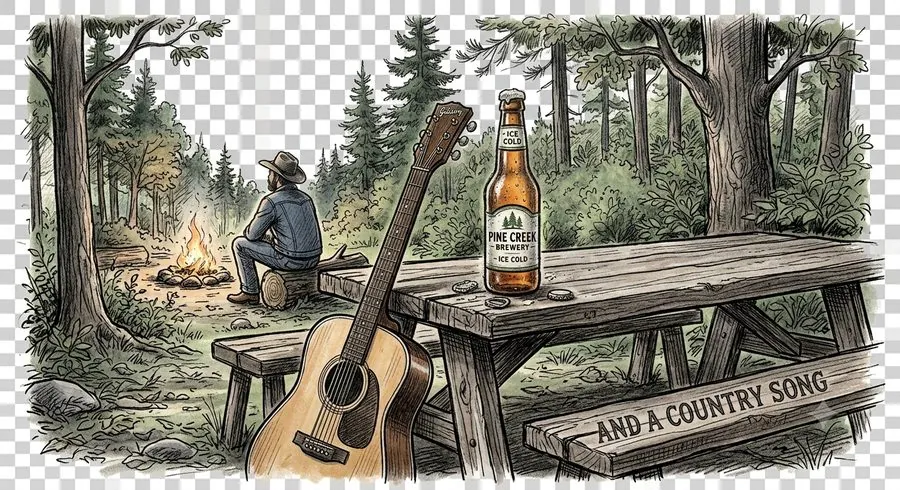
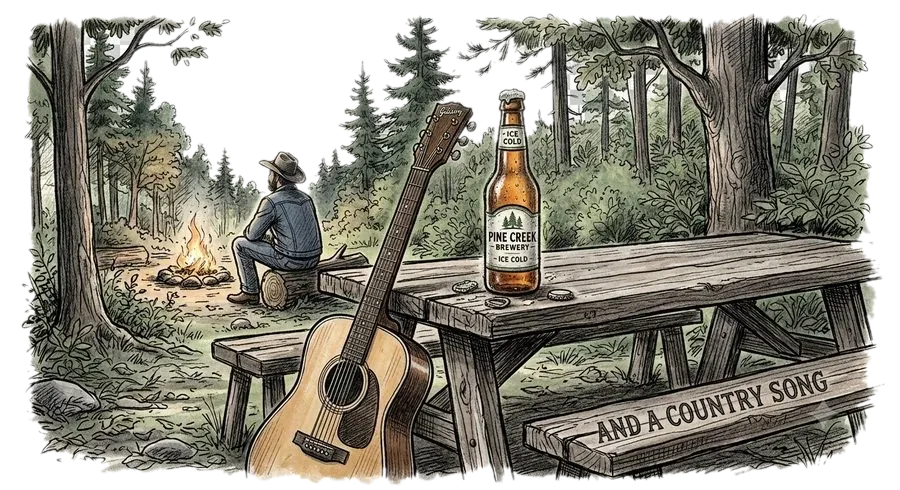
Google set-up: page addresses, titles, sitemap, product feed, image alt text
- Each page now has its own web address (/country-quotes, /design-your-own ...)
  with its own title and description; old #links still work
- /sitemap.xml and /robots.txt so Google can find every page and design image
- /merchant-feed.xml for free Google Shopping listings (each design as
  T-shirt, hoodie, mug and cap at the real prices)
- Design pictures are now real images with alt text (name + description)
  and are no longer hidden from Google Images (customer uploads still are)
- /country-quotes?design=ID opens that design (used by the feed, good for sharing)
- Shop details for Google (JSON-LD), footer links to every page
- Removed the checkerboard from the Country Quotes banner picture
- Service worker bumped to sca-v11; tests added

Claude-Session: https://claude.ai/code/session_01PQ3bHpSyMFpxk9568C5tdk

Changed region(s): [[0.0, 0.0, 1.0, 1.0]]

diff --git a/sca/public/app.js b/sca/public/app.js
@@ -72,6 +72,8 @@ async function savePricePanel(){
   }catch(e){ alert(e.message || 'Prices could not be saved.'); }
 }
 
+/* alt text read by Google and screen readers: the design name, plus its description if there is one */
+function designAlt(p){ return p.desc ? p.name + ' – ' + p.desc : p.name; }
 function productCard(p, collectionKey){
   const safeId = p.id.replace(/'/g,'');
   const safeName = p.name.replace(/'/g,'');
@@ -81,7 +83,7 @@ function productCard(p, collectionKey){
        <button class="del-btn edit-btn" title="Edit name, price and description" onclick="event.stopPropagation();editDesign('${collectionKey}','${safeId}')">✎</button>`
     : '';
   const swatch = p.img
-    ? `<div class="swatch img design" style="background-image:url('${p.img}');cursor:zoom-in;" onclick="openLightbox('${collectionKey||''}','${safeId}')">${delBtn}<span class="tag">Tap to see it bigger</span></div>`
+    ? `<div class="swatch img design" style="cursor:zoom-in;" onclick="openLightbox('${collectionKey||''}','${safeId}')"><img class="design-img" src="${escHtml(p.img)}" alt="${escHtml(designAlt(p))}" loading="lazy" decoding="async">${delBtn}<span class="tag">Tap to see it bigger</span></div>`
     : `<div class="swatch" style="background:${p.color};cursor:pointer;" onclick="onImageClick('${safeId}')">${delBtn}<span class="mark">${p.name}</span><span class="tag">Tap to order</span></div>`;
   return `<div class="card">
     ${swatch}
@@ -279,7 +281,7 @@ function openLightbox(key, id){
   const d = findDesignAnywhere(id);
   if(!d || !d.img) return;
   document.getElementById('lbImg').src = d.img;
-  document.getElementById('lbImg').alt = d.name;
+  document.getElementById('lbImg').alt = designAlt(d);
   document.getElementById('lbName').textContent = d.name;
   document.getElementById('lbDesc').textContent = d.desc || '';
   document.getElementById('lbPrice').textContent = 'from £' + d.price.toFixed(2);
@@ -1229,7 +1231,57 @@ function renderReviews(){
 buildStarInput('starsExperience');
 buildStarInput('starsProduct');
 
-function showPage(page){
+/* ---------------- one web address per page (helps Google) ----------------
+   Must match PAGE_ROUTES in netlify/lib/seo.mjs and the [[redirects]] in netlify.toml. */
+const PAGE_ROUTES = [
+  { page: "home", path: "/" },
+  { page: "quotes", path: "/country-quotes", collection: "quotes" },
+  { page: "borncollection", path: "/born-here-live-here-ride-here", collection: "born" },
+  { page: "pets", path: "/scottish-pets", collection: "pets" },
+  { page: "dailyquotes", path: "/sarcastic-quotes", collection: "daily" },
+  { page: "military", path: "/military", collection: "military" },
+  { page: "studio", path: "/design-your-own" },
+  { page: "reviews", path: "/reviews" },
+  { page: "contact", path: "/contact" },
+];
+const PAGE_META = {
+  home: ["Scottish Country Attitude | Scottish T-shirts, Hoodies, Mugs & Gifts",
+    "Scottish country quotes, biker, pet, sarcastic and military designs on T-shirts, hoodies, caps, mugs and bags. Made to order in Scotland, with gift sets and your own designs."],
+  quotes: ["Country Quote T-shirts, Hoodies & Mugs | Scottish Country Attitude",
+    "Country music and country living quotes on T-shirts, hoodies, caps and mugs. Made to order in Scotland. Gift sets available."],
+  borncollection: ["Born Here, Live Here, Ride Here | Scottish Biker T-shirts & Gifts",
+    "Scottish biker designs on T-shirts, hoodies, caps and mugs. Highland roads, Saltire pride and sport bikes, made to order in Scotland."],
+  pets: ["Scottish Pets Wae Country Attitude | Pet T-shirts, Mugs & Bags",
+    "Sassy Scottish pet designs on T-shirts, hoodies, mugs and bags. Highland coos, Scotties, spaniels and more, made to order."],
+  dailyquotes: ["Sarcastic Quote T-shirts & Mugs | Scottish Country Attitude",
+    "Cheeky Scottish one-liners on T-shirts, hoodies, caps and mugs for folk with attitude. Made to order in Scotland."],
+  military: ["Military & Veteran T-shirts and Mugs | Scottish Country Attitude",
+    "Designs for serving and former soldiers and their families on mugs, T-shirts and hoodies, or upload your own photo. Made to order in Scotland."],
+  studio: ["Design Your Own T-shirt, Hoodie or Mug | Hen & Stag Dos | Scottish Country Attitude",
+    "Custom T-shirts, hoodies, mugs, caps and bags for hen dos, stag dos, parties and gifts. Upload your image, approve a free proof, then pay."],
+  reviews: ["Customer Reviews | Scottish Country Attitude", "What customers say about their Scottish Country Attitude orders."],
+  contact: ["Contact Us | Scottish Country Attitude", "Questions, bulk orders or custom ideas? Get in touch with Scottish Country Attitude."],
+};
+const routeFor = (page) => PAGE_ROUTES.find(r => r.page === page) || PAGE_ROUTES[0];
+function pageFromPath(path){
+  const clean = (path || '/').replace(/\/+$/, '') || '/';
+  const r = PAGE_ROUTES.find(r => r.path === clean);
+  return r ? r.page : null;
+}
+function setMeta(sel, attr, val){ const el = document.querySelector(sel); if(el) el.setAttribute(attr, val); }
+function applyPageMeta(page){
+  const [title, desc] = PAGE_META[page] || PAGE_META.home;
+  const url = 'https://scottishcountryattitude.co.uk' + routeFor(page).path;
+  document.title = title;
+  setMeta('meta[name="description"]', 'content', desc);
+  setMeta('meta[property="og:title"]', 'content', title);
+  setMeta('meta[property="og:description"]', 'content', desc);
+  setMeta('meta[property="og:url"]', 'content', url);
+  setMeta('link[rel="canonical"]', 'href', url);
+}
+
+function showPage(page, opts){
+  if(!document.getElementById('page-'+page)) page = 'home';
   document.querySelectorAll('section.page').forEach(s=>s.classList.remove('active'));
   document.getElementById('page-'+page).classList.add('active');
   document.querySelectorAll('nav.tabs button').forEach(b=>b.classList.toggle('active', b.dataset.page===page));
@@ -1237,8 +1289,11 @@ function showPage(page){
   if(page === 'studio'){ studioInit(); }
   if(page === 'reviews'){ renderReviews(); }
   if(page === 'contact'){ renderContact(); }
-  if(history.replaceState) history.replaceState(null, '', page === 'home' ? location.pathname : '#' + page);
+  applyPageMeta(page);
+  const path = routeFor(page).path;
+  if(!(opts && opts.noHistory) && history.pushState && location.pathname !== path) history.pushState({page}, '', path);
 }
+window.addEventListener('popstate', ()=>{ showPage(pageFromPath(location.pathname) || 'home', {noHistory:true}); });
 
 /* ---------------- shop data lives on the server ---------------- */
 let ADMIN_KEY = null;
@@ -1288,6 +1343,7 @@ async function loadShop(){
   renderGrids(); renderGiftSets(); renderReviews();
   renderDeliveryChoice('cartDelivery','cart'); updateCartUI(); renderContact();
   if(document.getElementById('page-studio').classList.contains('active')) studioInit();
+  if(typeof openPendingDesign === 'function') openPendingDesign();
 }
 
 /* show the last copy of the shop straight away (works offline), then refresh from the server */
@@ -1299,11 +1355,32 @@ renderReviews();
 renderContact();
 setAdminUI();
 loadShop();
-/* open the page named in the address, e.g. scottishcountryattitude.co.uk/#studio */
+/* open the page named in the address, e.g. scottishcountryattitude.co.uk/design-your-own
+   (old links like /#studio still work and are moved to the new address) */
 (function(){
   const h = location.hash.replace('#','');
-  if(h && document.getElementById('page-'+h) && !location.search) showPage(h);
+  if(h && document.getElementById('page-'+h)){
+    history.replaceState(null, '', routeFor(h).path + location.search);
+    showPage(h, {noHistory:true});
+  } else {
+    showPage(pageFromPath(location.pathname) || 'home', {noHistory:true});
+  }
 })();
+
+/* a link to one design, e.g. /country-quotes?design=q123 (used by Google Shopping and for sharing) */
+let pendingDesign = new URLSearchParams(location.search).get('design');
+function openPendingDesign(){
+  if(!pendingDesign) return;
+  for(const r of PAGE_ROUTES){
+    if(r.collection && (catalogs[r.collection]||[]).some(d=>d.id===pendingDesign)){
+      showPage(r.page, {noHistory:true});
+      openLightbox(r.collection, pendingDesign);
+      pendingDesign = null;
+      return;
+    }
+  }
+}
+openPendingDesign();
 
 /* coming back from Stripe */
 (function(){

diff --git a/sca/public/index.html b/sca/public/index.html
@@ -3,7 +3,8 @@
 <head>
 <meta charset="UTF-8">
 <meta name="viewport" content="width=device-width, initial-scale=1, viewport-fit=cover">
-<title>Scottish Country Attitude</title>
+<title>Scottish Country Attitude | Scottish T-shirts, Hoodies, Mugs &amp; Gifts</title>
+<link rel="canonical" href="https://scottishcountryattitude.co.uk/">
 <meta name="theme-color" content="#17231d">
 <meta name="description" content="Scottish Country Attitude: Scottish country quotes, sarcastic quotes, pets, military and custom T-shirts, hoodies, caps, mugs and bags, made to order in Scotland.">
 <meta property="og:title" content="Scottish Country Attitude">
@@ -11,9 +12,9 @@
 <meta property="og:image" content="https://scottishcountryattitude.co.uk/images/born.webp">
 <meta property="og:url" content="https://scottishcountryattitude.co.uk/">
 <meta property="og:type" content="website">
-<link rel="manifest" href="manifest.webmanifest">
-<link rel="icon" type="image/png" sizes="32x32" href="icons/favicon-32.png">
-<link rel="apple-touch-icon" href="icons/apple-touch-icon.png">
+<link rel="manifest" href="/manifest.webmanifest">
+<link rel="icon" type="image/png" sizes="32x32" href="/icons/favicon-32.png">
+<link rel="apple-touch-icon" href="/icons/apple-touch-icon.png">
 <meta name="mobile-web-app-capable" content="yes">
 <meta name="apple-mobile-web-app-capable" content="yes">
 <meta name="apple-mobile-web-app-title" content="Country Attitude">
@@ -21,7 +22,14 @@
 <link rel="preconnect" href="https://fonts.googleapis.com">
 <link rel="preconnect" href="https://fonts.gstatic.com" crossorigin>
 <link href="https://fonts.googleapis.com/css2?family=Fraunces:ital,opsz,wght@0,9..144,400;0,9..144,600;0,9..144,900;1,9..144,500&family=Work+Sans:wght@400;500;600;700&display=swap" rel="stylesheet">
-<link rel="stylesheet" href="styles.css">
+<script type="application/ld+json">
+{"@context":"https://schema.org","@type":"OnlineStore","name":"Scottish Country Attitude",
+ "url":"https://scottishcountryattitude.co.uk/","logo":"https://scottishcountryattitude.co.uk/icons/icon-512.png",
+ "image":"https://scottishcountryattitude.co.uk/images/born.webp","email":"scottishcountryattitude@outlook.com",
+ "description":"Scottish country quotes, biker, pet, sarcastic and military designs on T-shirts, hoodies, caps, mugs and bags, made to order in Scotland.",
+ "areaServed":"GB","currenciesAccepted":"GBP"}
+</script>
+<link rel="stylesheet" href="/styles.css">
 </head>
 <body>
 
@@ -283,7 +291,7 @@
         <input type="text" id="ctWebsite" tabindex="-1" autocomplete="off" aria-hidden="true" style="position:absolute;left:-9999px;width:1px;height:1px;opacity:0;">
         <button class="add-btn" style="width:100%;padding:12px;" onclick="sendContact()">Send message</button>
         <div class="rev-msg" id="ctMsg"></div>
-        <p class="hint">Got a photo ready? Use <a href="#" onclick="startStudio('studio');return false;">Design Your Own</a> to upload it and see it on your item.</p>
+        <p class="hint">Got a photo ready? Use <a href="/design-your-own" onclick="startStudio('studio');return false;">Design Your Own</a> to upload it and see it on your item.</p>
       </div>
     </div>
   </section>
@@ -333,7 +341,17 @@
 
 </main>
 
-<footer>Scottish Country Attitude — made to order, printed after payment clears. <a href="#" onclick="showPage('contact');return false;">Contact</a> · <a href="#" id="adminLink" onclick="adminLogin();return false;">Admin</a></footer>
+<footer>
+  <nav class="foot-links" aria-label="Shop pages">
+    <a href="/country-quotes" onclick="showPage('quotes');return false;">Country Quotes</a> ·
+    <a href="/born-here-live-here-ride-here" onclick="showPage('borncollection');return false;">Born Here Live Here Ride Here</a> ·
+    <a href="/scottish-pets" onclick="showPage('pets');return false;">Scottish Pets</a> ·
+    <a href="/sarcastic-quotes" onclick="showPage('dailyquotes');return false;">Sarcastic Quotes</a> ·
+    <a href="/military" onclick="showPage('military');return false;">Military</a> ·
+    <a href="/design-your-own" onclick="showPage('studio');return false;">Design Your Own</a> ·
+    <a href="/reviews" onclick="showPage('reviews');return false;">Reviews</a>
+  </nav>
+  Scottish Country Attitude — made to order, printed after payment clears. <a href="/contact" onclick="showPage('contact');return false;">Contact</a> · <a href="#" id="adminLink" onclick="adminLogin();return false;">Admin</a></footer>
 
 <!-- CART DRAWER -->
 <div class="overlay" id="overlay" onclick="closeCart()"></div>
@@ -437,14 +455,14 @@
   </div>
 </div>
 
-<script src="mockup.js"></script>
-<script src="app.js"></script>
+<script src="/mockup.js"></script>
+<script src="/app.js"></script>
 <div id="installBar" hidden>
   <span id="installText">Install this app on your phone</span>
   <button id="installBtn" type="button">Install</button>
   <button id="installClose" type="button" aria-label="Dismiss">&times;</button>
 </div>
-<script src="pwa.js"></script>
+<script src="/pwa.js"></script>
 
 </body>
 </html>

diff --git a/sca/public/styles.css b/sca/public/styles.css
@@ -382,3 +382,7 @@ body.is-admin #adminBar{display:block;}
   display:flex; align-items:center; justify-content:center; font-weight:700;}
 .app-note{font-size:0.88rem; line-height:1.5;}
 #appModal .btn{margin-top:6px;}
+
+/* design pictures are real <img> tags (so Google Images can read them), shown like before */
+.swatch.img.design img.design-img{position:absolute; inset:0; width:100%; height:100%; object-fit:contain;}
+footer .foot-links{display:block; margin-bottom:8px; line-height:1.9;}

diff --git a/sca/public/sw.js b/sca/public/sw.js
@@ -1,6 +1,6 @@
 /* Scottish Country Attitude service worker.
    Bump VERSION whenever you change any file so installed apps pick it up. */
-const VERSION = 'sca-v10';
+const VERSION = 'sca-v11';
 const SHELL = [
   './', 'index.html', 'styles.css', 'app.js', 'manifest.webmanifest',
   'images/born.webp', 'images/pets.webp', 'images/quotes.webp', 'images/emblem.webp',

diff --git a/sca/public/pwa.js b/sca/public/pwa.js
@@ -2,7 +2,7 @@
 (function () {
   if ('serviceWorker' in navigator) {
     window.addEventListener('load', function () {
-      navigator.serviceWorker.register('sw.js').catch(function () {});
+      navigator.serviceWorker.register('/sw.js').catch(function () {});
     });
   }
 
